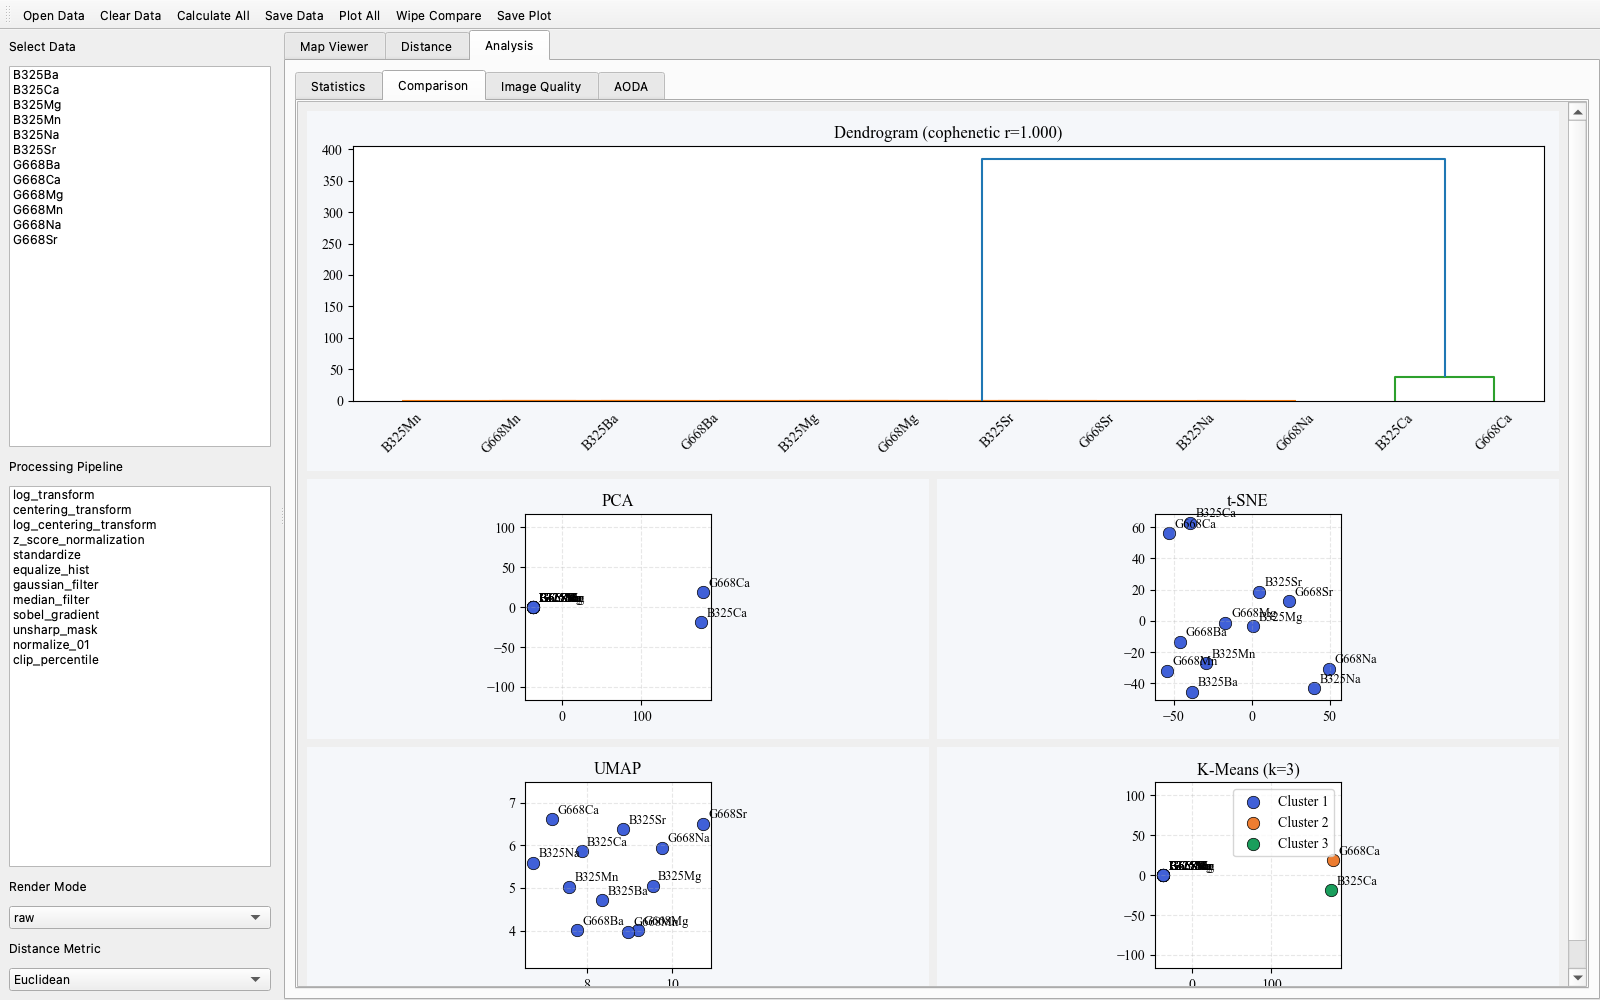
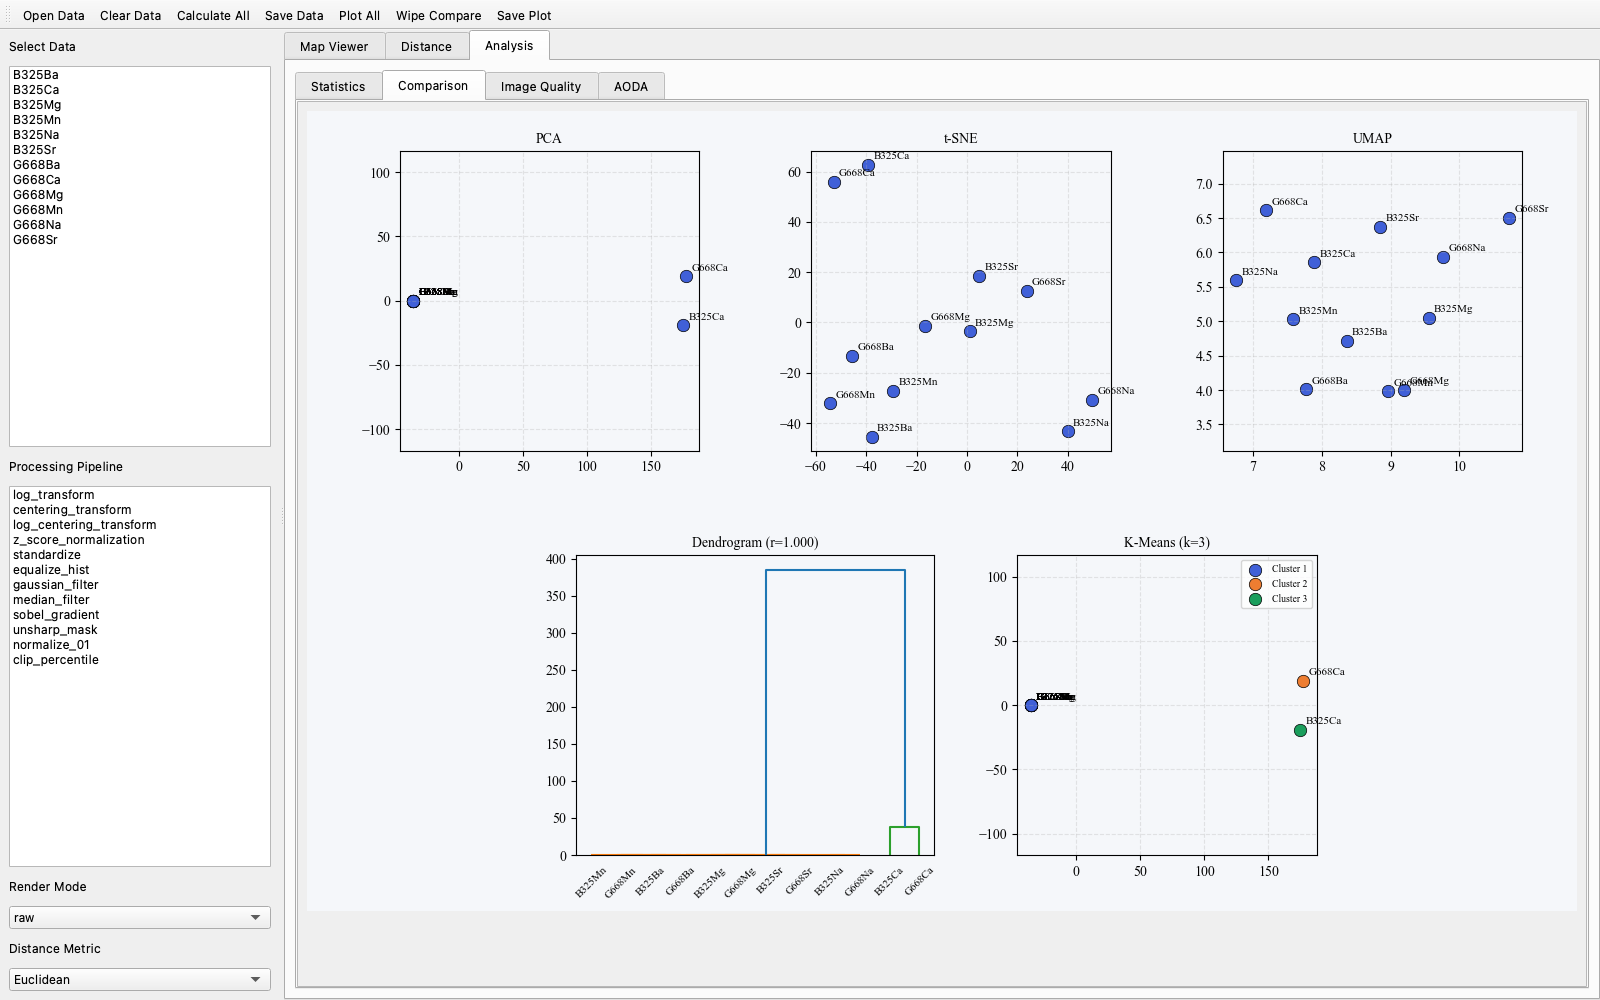
v1.2.9: stats pane 2 squares + comparison pane 5 squares (3-top/2-bottom)
- Statistics: two square plots (PCA + correlation), equal aspect
- Comparison: single figure, 5 square subplots, 3 on top row, 2 centred on bottom

diff --git a/cpsvisualizer/src/cpsvisualizer/app.py b/cpsvisualizer/src/cpsvisualizer/app.py
@@ -536,8 +536,11 @@ class CPSVisualizer(QMainWindow):
     def _build_stats_pane(self, parent):
         sc, inner = self._scroll_pane()
         v = QVBoxLayout(inner)
-        self._pca_canvas = FigureCanvas(Figure(figsize=(6, 4), dpi=self.dpi))
-        self._corr_canvas = FigureCanvas(Figure(figsize=(6, 4), dpi=self.dpi))
+        self._pca_canvas = FigureCanvas(Figure(figsize=(6, 6), dpi=self.dpi))
+        self._corr_canvas = FigureCanvas(Figure(figsize=(6, 6), dpi=self.dpi))
+        for c in (self._pca_canvas, self._corr_canvas):
+            c.setSizePolicy(QSizePolicy.Expanding, QSizePolicy.Expanding)
+            c.setMinimumHeight(350)
         v.addWidget(self._pca_canvas)
         v.addWidget(self._corr_canvas)
         v.addStretch(1)
@@ -545,33 +548,12 @@ class CPSVisualizer(QMainWindow):
 
     def _build_comparison_pane(self, parent):
         sc, inner = self._scroll_pane()
-        grid = QGridLayout(inner)
-        grid.setSpacing(8)
-
-        self._dendro_canvas = FigureCanvas(Figure(figsize=(10, 4), dpi=self.dpi))
-        self._cmp_pca_canvas = FigureCanvas(Figure(figsize=(5, 5), dpi=self.dpi))
-        self._cmp_tsne_canvas = FigureCanvas(Figure(figsize=(5, 5), dpi=self.dpi))
-        self._cmp_umap_canvas = FigureCanvas(Figure(figsize=(5, 5), dpi=self.dpi))
-        self._kmeans_canvas = FigureCanvas(Figure(figsize=(5, 5), dpi=self.dpi))
-
-        self._dendro_canvas.setSizePolicy(QSizePolicy.Expanding, QSizePolicy.Fixed)
-        self._dendro_canvas.setMaximumHeight(360)
-        for c in (self._cmp_pca_canvas, self._cmp_tsne_canvas,
-                  self._cmp_umap_canvas, self._kmeans_canvas):
-            c.setSizePolicy(QSizePolicy.Expanding, QSizePolicy.Expanding)
-            c.setMinimumHeight(260)
-
-        grid.addWidget(self._dendro_canvas, 0, 0, 1, 2)
-        grid.addWidget(self._cmp_pca_canvas, 1, 0)
-        grid.addWidget(self._cmp_tsne_canvas, 1, 1)
-        grid.addWidget(self._cmp_umap_canvas, 2, 0)
-        grid.addWidget(self._kmeans_canvas, 2, 1)
-
-        for col in range(2):
-            grid.setColumnStretch(col, 1)
-        grid.setRowStretch(0, 0)
-        grid.setRowStretch(1, 1)
-        grid.setRowStretch(2, 1)
+        v = QVBoxLayout(inner)
+        self._cmp_canvas = FigureCanvas(Figure(figsize=(12, 8), dpi=self.dpi))
+        self._cmp_canvas.setSizePolicy(QSizePolicy.Expanding, QSizePolicy.Expanding)
+        self._cmp_canvas.setMinimumHeight(600)
+        v.addWidget(self._cmp_canvas)
+        v.addStretch(1)
         parent.addTab(sc, 'Comparison')
 
     def _build_quality_pane(self, parent):
@@ -658,14 +640,11 @@ class CPSVisualizer(QMainWindow):
     def _all_figs(self):
         return [self._map_fig, self._dist_canvas.figure,
                 self._pca_canvas.figure, self._corr_canvas.figure,
-                self._cmp_pca_canvas.figure, self._cmp_tsne_canvas.figure,
-                self._cmp_umap_canvas.figure, self._dendro_canvas.figure,
-                self._kmeans_canvas.figure, self._quality_canvas.figure]
+                self._cmp_canvas.figure, self._quality_canvas.figure]
 
     def _redraw_all(self):
         for c in (self._map_canvas, self._dist_canvas, self._pca_canvas,
-                  self._corr_canvas, self._cmp_pca_canvas, self._cmp_tsne_canvas,
-                  self._cmp_umap_canvas, self._dendro_canvas, self._kmeans_canvas,
+                  self._corr_canvas, self._cmp_canvas,
                   self._quality_canvas):
             c.draw()
 
@@ -1052,6 +1031,8 @@ class CPSVisualizer(QMainWindow):
             ax.set_ylabel(f'PC2 ({ev[1]*100:.1f}%)' if len(ev) > 1 else 'PC2')
             ax.set_title('PCA: Element Distribution Patterns')
             ax.grid(True, alpha=0.3, linestyle='--')
+            ax.set_aspect('equal', adjustable='box')
+            _equal_lims(ax, coords[:, 0], coords[:, 1])
         except Exception as e:
             ax = fig.add_subplot(111)
             ax.text(0.5, 0.5, f'PCA error: {e}', ha='center', va='center')
@@ -1078,10 +1059,20 @@ class CPSVisualizer(QMainWindow):
         self._corr_canvas.draw()
 
     def _render_comparison(self, dfs, names):
-        def draw(fig, canvas, fn, title):
-            fig.clear()
-            fig.patch.set_facecolor(FIG_BG)
-            ax = fig.add_subplot(111)
+        from matplotlib.gridspec import GridSpec
+        fig = self._cmp_canvas.figure
+        fig.clear()
+        fig.patch.set_facecolor(FIG_BG)
+        # 5 square subplots: top row 3, bottom row 2 (centred)
+        # Use a 2x6 grid; top row uses cols 0-1, 2-3, 4-5; bottom row
+        # uses cols 1-2, 3-4 (offset by 1 to centre).
+        gs = GridSpec(2, 6, figure=fig,
+                      width_ratios=[1, 1, 1, 1, 1, 1],
+                      wspace=0.35, hspace=0.35,
+                      left=0.05, right=0.98, top=0.95, bottom=0.07)
+
+        def _draw_scatter(ax, fn, title):
+            ax.set_facecolor(FIG_BG)
             try:
                 r = fn()
                 if isinstance(r, dict) and r.get('error'):
@@ -1093,72 +1084,77 @@ class CPSVisualizer(QMainWindow):
                                    edgecolors='k', linewidths=0.5)
                         for i, n in enumerate(names):
                             ax.annotate(n, (emb[i, 0], emb[i, 1]),
-                                        textcoords="offset points", xytext=(4, 4), fontsize=9)
+                                        textcoords="offset points",
+                                        xytext=(4, 4), fontsize=8)
                         ax.set_aspect('equal', adjustable='box')
                         _equal_lims(ax, emb[:, 0], emb[:, 1])
-                    ax.set_title(title)
-                    ax.grid(True, alpha=0.3, linestyle='--')
-                else:
-                    ax.set_title(title)
+                ax.set_title(title, fontsize=10)
+                ax.grid(True, alpha=0.3, linestyle='--')
             except Exception as e:
                 ax.text(0.5, 0.5, str(e), ha='center', va='center')
-            fig.tight_layout()
-            canvas.draw()
 
-        draw(self._cmp_pca_canvas.figure, self._cmp_pca_canvas,
-             lambda: compute_pca_embedding(dfs, names), 'PCA')
-        draw(self._cmp_tsne_canvas.figure, self._cmp_tsne_canvas,
-             lambda: compute_tsne_embedding(dfs, names, perplexity=min(5, len(dfs) - 1)),
-             't-SNE')
-        draw(self._cmp_umap_canvas.figure, self._cmp_umap_canvas,
-             lambda: compute_umap_embedding(dfs, names), 'UMAP')
+        # top row: PCA (cols 0-1), t-SNE (cols 2-3), UMAP (cols 4-5)
+        ax_pca = fig.add_subplot(gs[0, 0:2])
+        ax_tsne = fig.add_subplot(gs[0, 2:4])
+        ax_umap = fig.add_subplot(gs[0, 4:6])
+        # bottom row: Dendrogram (cols 1-2), K-Means (cols 3-4) — centred
+        ax_dendro = fig.add_subplot(gs[1, 1:3])
+        ax_kmeans = fig.add_subplot(gs[1, 3:5])
+
+        for ax in (ax_pca, ax_tsne, ax_umap, ax_dendro, ax_kmeans):
+            ax.set_facecolor(FIG_BG)
+
+        _draw_scatter(ax_pca,
+                      lambda: compute_pca_embedding(dfs, names), 'PCA')
+        _draw_scatter(ax_tsne,
+                      lambda: compute_tsne_embedding(
+                          dfs, names, perplexity=min(5, len(dfs) - 1)),
+                      't-SNE')
+        _draw_scatter(ax_umap,
+                      lambda: compute_umap_embedding(dfs, names), 'UMAP')
 
         # dendrogram
-        fig = self._dendro_canvas.figure
-        fig.clear()
-        fig.patch.set_facecolor(FIG_BG)
-        ax = fig.add_subplot(111)
         try:
             from scipy.cluster.hierarchy import dendrogram
             hier = compute_hierarchical_clustering(dfs, names)
             if hier.get('linkage') is not None:
-                dendrogram(hier['linkage'], labels=names, ax=ax,
-                           leaf_rotation=45, leaf_font_size=10)
-                ax.set_title(f"Dendrogram (cophenetic r={hier['cophenetic_correlation']:.3f})")
+                dendrogram(hier['linkage'], labels=names, ax=ax_dendro,
+                           leaf_rotation=45, leaf_font_size=8)
+                ax_dendro.set_title(
+                    f"Dendrogram (r={hier['cophenetic_correlation']:.3f})",
+                    fontsize=10)
             else:
-                ax.text(0.5, 0.5, 'Need ≥2 samples', ha='center', va='center')
+                ax_dendro.text(0.5, 0.5, 'Need >=2 samples',
+                               ha='center', va='center')
         except Exception as e:
-            ax.text(0.5, 0.5, str(e), ha='center', va='center')
-        fig.tight_layout()
-        self._dendro_canvas.draw()
+            ax_dendro.text(0.5, 0.5, str(e), ha='center', va='center')
 
-        # kmeans
-        fig = self._kmeans_canvas.figure
-        fig.clear()
-        fig.patch.set_facecolor(FIG_BG)
-        ax = fig.add_subplot(111)
+        # k-means
         try:
-            km = compute_kmeans_clustering(dfs, names, n_clusters=min(3, len(dfs)))
-            pca = compute_pca_embedding(dfs, names)['embedding']
+            km = compute_kmeans_clustering(dfs, names,
+                                            n_clusters=min(3, len(dfs)))
+            pca_emb = compute_pca_embedding(dfs, names)['embedding']
             colors = ['#4060d8', '#ed7d31', '#1a9e5c', '#c78a0a', '#d64545']
             for k in set(km['labels']):
                 mask = np.array(km['labels']) == k
-                ax.scatter(pca[mask, 0], pca[mask, 1], s=80,
-                           c=colors[k % len(colors)], label=f'Cluster {k + 1}',
-                           edgecolors='k', linewidths=0.5)
+                ax_kmeans.scatter(pca_emb[mask, 0], pca_emb[mask, 1], s=80,
+                                  c=colors[k % len(colors)],
+                                  label=f'Cluster {k + 1}',
+                                  edgecolors='k', linewidths=0.5)
                 for i, n in enumerate(names):
                     if mask[i]:
-                        ax.annotate(n, (pca[i, 0], pca[i, 1]),
-                                    textcoords="offset points", xytext=(4, 4), fontsize=9)
-            ax.legend()
-            ax.set_title(f"K-Means (k={km['n_clusters']})")
-            ax.set_aspect('equal', adjustable='box')
-            _equal_lims(ax, pca[:, 0], pca[:, 1])
-            ax.grid(True, alpha=0.3, linestyle='--')
+                        ax_kmeans.annotate(n, (pca_emb[i, 0], pca_emb[i, 1]),
+                                           textcoords="offset points",
+                                           xytext=(4, 4), fontsize=8)
+            ax_kmeans.legend(fontsize=7)
+            ax_kmeans.set_title(f"K-Means (k={km['n_clusters']})", fontsize=10)
+            ax_kmeans.set_aspect('equal', adjustable='box')
+            _equal_lims(ax_kmeans, pca_emb[:, 0], pca_emb[:, 1])
+            ax_kmeans.grid(True, alpha=0.3, linestyle='--')
         except Exception as e:
-            ax.text(0.5, 0.5, str(e), ha='center', va='center')
-        fig.tight_layout()
-        self._kmeans_canvas.draw()
+            ax_kmeans.text(0.5, 0.5, str(e), ha='center', va='center')
+
+        self._cmp_canvas.draw()
 
     def _render_quality(self, dfs, names):
         fig = self._quality_canvas.figure

diff --git a/cpsvisualizer/src/setup.py b/cpsvisualizer/src/setup.py
@@ -15,7 +15,7 @@ except Exception:
 
 setup(
     name='cpsvisualizer',
-    version='1.2.8',
+    version='1.2.9',
     description='CPS-Visualizer: Visualization, similarity measurement, and statistical analysis of LA-ICP-MS surface scan data.',
     long_description=README,
     long_description_content_type='text/markdown',
